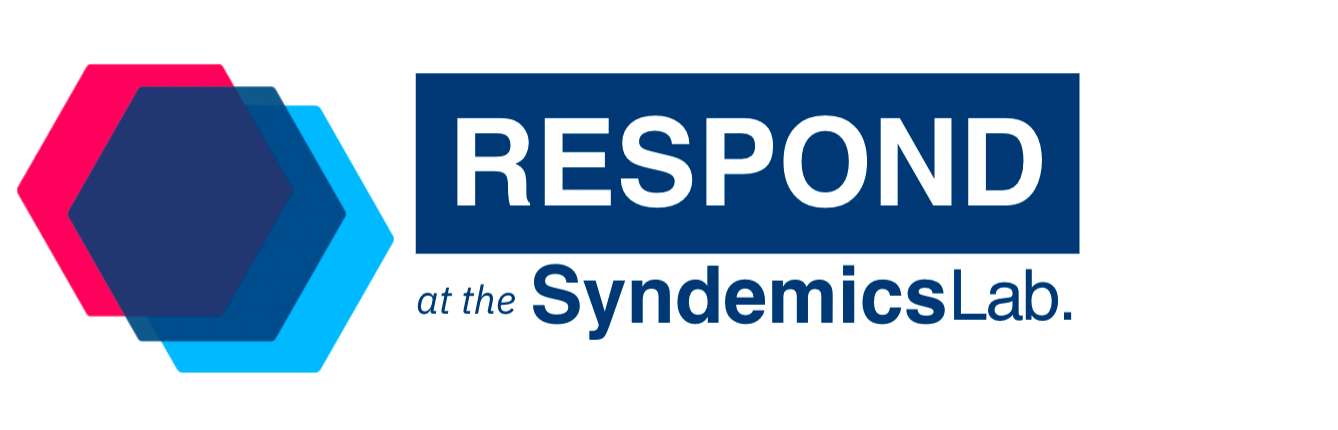
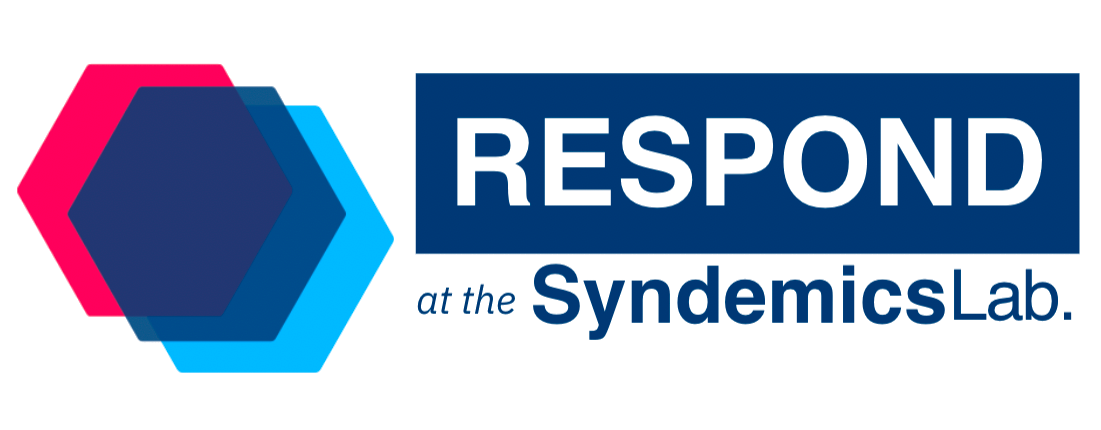
[Enhancement] Update README (#6)
* Adjust the positioning and display of organization logos

* Adjusting raw markdown formatting and positioning of images

* Attempt to fix placement of images

* More formatting adjustments

* Testing more formatting fixes

* More tweaking of image placement

* Add link to hep-ce source

* Update model descriptions

* Adjusting sizing of model images, removing dictionary section

* Use relative paths for model image sources

* Adjust all images to relative paths, update RESPOND image

Changed region(s): [[0.1544, 0.1512, 0.9882, 0.8767], [0.0, 0.1512, 0.1853, 0.8767]]

diff --git a/profile/README.md b/profile/README.md
@@ -1,29 +1,40 @@
-<p align="center">
-<a href="https://syndemicslab.org"><img src="https://github.com/SyndemicsLab/.github/blob/main/profile/images/SyndemicsLab.png" alt="Syndemics Lab Logo" height="150px" /></a>
-<a href="https://bmc.org"><img src="https://github.com/SyndemicsLab/.github/blob/main/profile/images/BMC.png" alt="BMC Logo" height="150px" /></a>
-</p>
-
 # Syndemics Lab at Boston Medical Center
 Welcome to the [Syndemics Lab](https://syndemicslab.org). Under Lead Principal Investigator Benjamin P. Linas, we conduct research as part of Boston Medical Center.
 
-## What We Do
-Our team studies synergistic epidemics, or *syndemics*, with a particular focus on Hepatitis C Virus (HCV), the Human Immunodeficiency Virus (HIV), and substance use disorder.
-
-Our work is centered on using simulation and cost-effectiveness analysis methods to evaluate current public health guidelines and policies, primarily through use of our simulation models, RESPOND and HEP-CE.
-
 <p align="center">
-<img src="https://github.com/SyndemicsLab/.github/blob/main/profile/images/RESPOND.png" alt="RESPOND Logo" height="100" />
+<a href="https://syndemicslab.org"><img src="/profile/images/SyndemicsLab.png" alt="Syndemics Lab Logo" height="150px" /></a>
 &nbsp;&nbsp;
-<img src="https://github.com/SyndemicsLab/.github/blob/main/profile/images/HEPCE.png" alt="HEP-CE Logo" height="100" />
+<a href="https://bmc.org"><img src="/profile/images/BMC.png" alt="BMC Logo" height="150px" /></a>
 </p>
+
+## What We Do
+Our team studies synergistic epidemics—*syndemics*—with a particular focus on
+Hepatitis C Virus (HCV), the Human Immunodeficiency Virus (HIV), and substance
+use disorders.  Our work is centered on using simulation and cost-effectiveness
+analysis methods to evaluate current public health guidelines and policies,
+primarily through use of our simulation models, RESPOND and HEP-CE.
 
 ### RESPOND
 
-**R**esearching **E**ffective **S**trategies to **P**revent **O**pioid **D**eath (`RESPOND`) is a compartmental, cohort-based simulation model intended to represent a population with opioid use disorder through its movements on and off of treatments.
+<a href="https://syndemicslab.github.io/respond/">
+<img src="/profile/images/RESPOND.png" alt="RESPOND Logo" width="200" align="right"/>
+</a>
+
+**R**esearching **E**ffective **S**trategies to **P**revent **O**pioid **D**eath
+(`RESPOND`) is a population-level, cohort-based simulation model that simulates
+populations with opioid use disorder through movements between health states
+which represent varied substance use behaviors and different medical treatments
+or interventions.
 
 ### HEP-CE
 
-**Hep**atitis C **C**ost **E**ffectiveness (`HEP-CE`) is a health economics Markov Chain Monte Carlo micro-simulation model focused on studying the syndemic of opioid use disorder and the hepatitis C virus (HCV).
+<a href="https://github.com/SyndemicsLab/hep-ce">
+<img src="/profile/images/HEPCE.png" alt="HEP-CE Logo" width="200" align="right"/>
+</a>
 
-## Syndemics Lab Dictionary
-The Syndemics Lab provides a [dictionary](https://bmcorg-my.sharepoint.com/:w:/g/personal/matthew_carroll_bmc_org/ESQbDqLmKg9Agmj3YprAg7EB-VTvxtY9mQZ_3RyZWKnr7Q?e=h3GFgv) of terminology and acronyms commonly used by the team.
+**Hep**atitis C **C**ost **E**ffectiveness (`HEP-CE`) is a Markov chain Monte
+Carlo micro-simulation model focused on studying the syndemic of opioid use
+disorder and the hepatitis C virus (HCV). HEP-CE models HCV incidence,
+screening, linkage to care, treatment, and related morbidity risks, measuring
+costs and quality-adjusted life years so that relative benefits of treatment
+policies may be compared.
